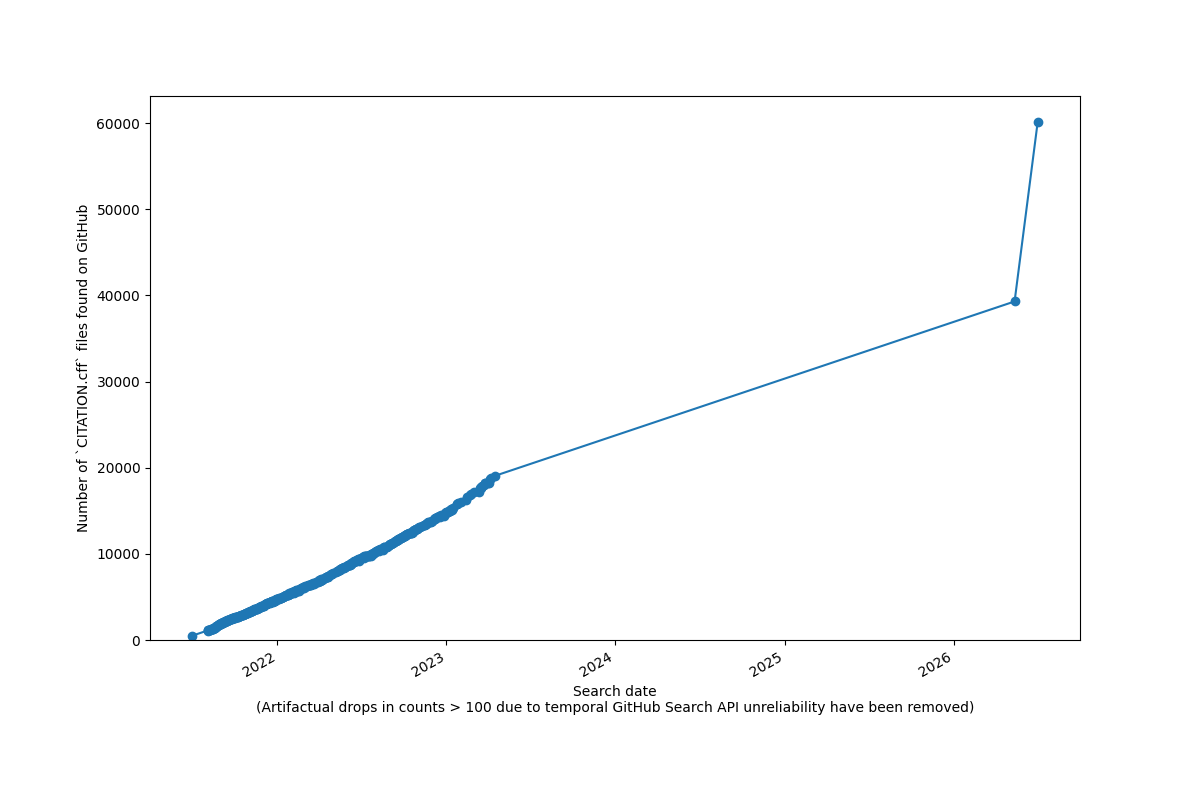
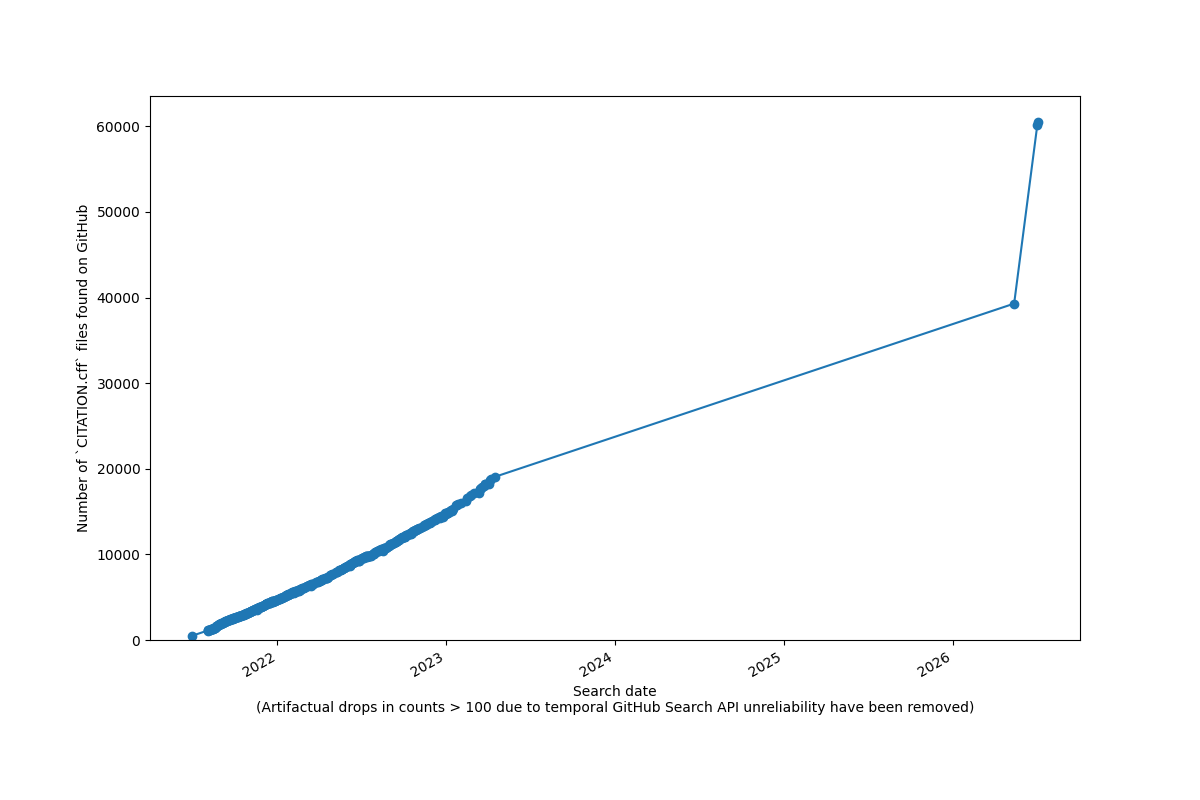
Update data

diff --git a/README.md b/README.md
@@ -7,7 +7,7 @@ SPDX-License-Identifier: CC-BY-4.0
 
 Tracks `CITATION.cff` files across public repositories on GitHub.
 
-## Current count: 60160
+## Current count: 60544
 
 ![A graph showing a timeline of file counts for CITATION.cff files across GitHub retrieved via GitHub search API.](cff_counts_clean.png)
 